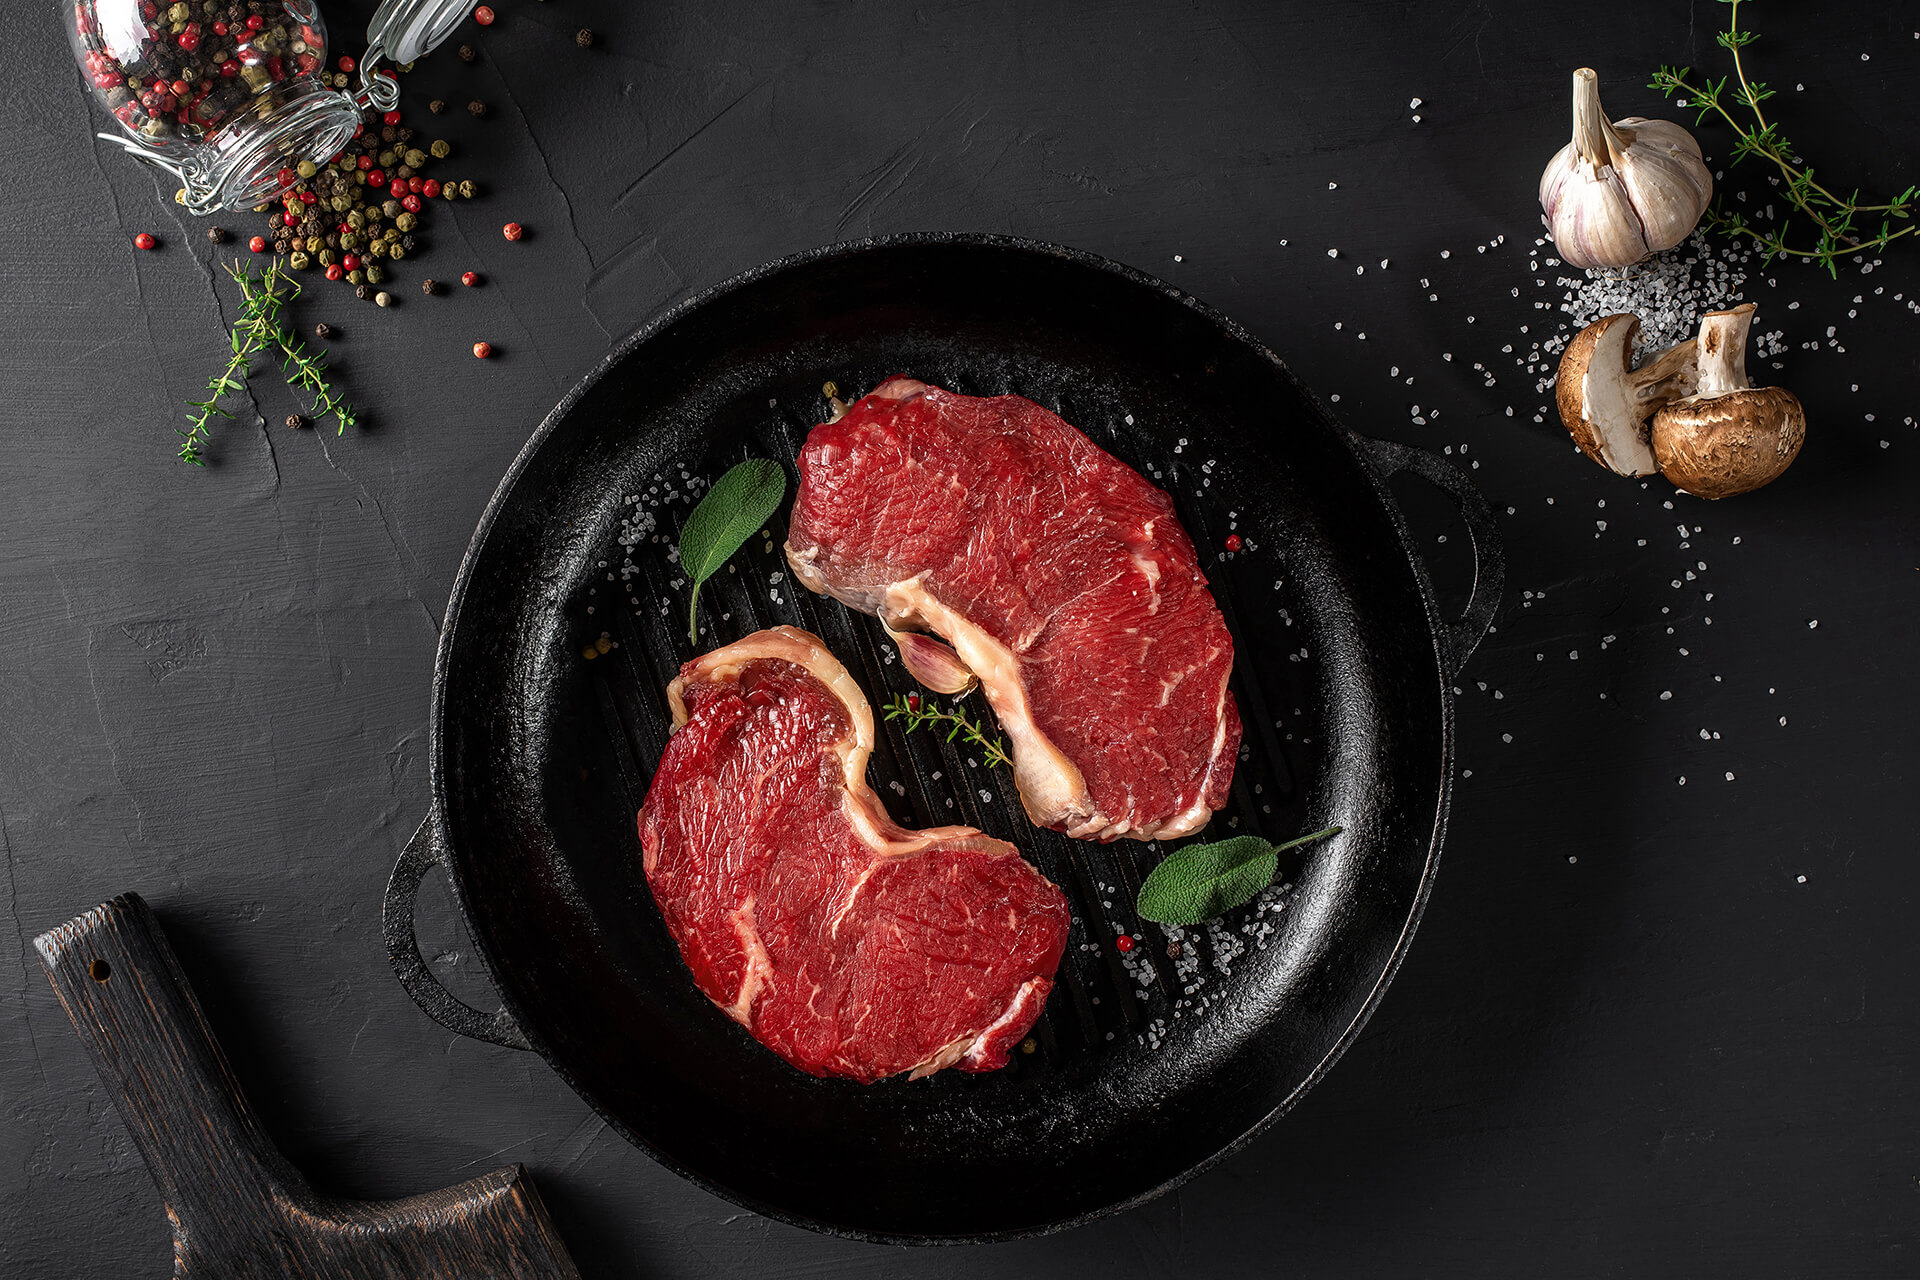
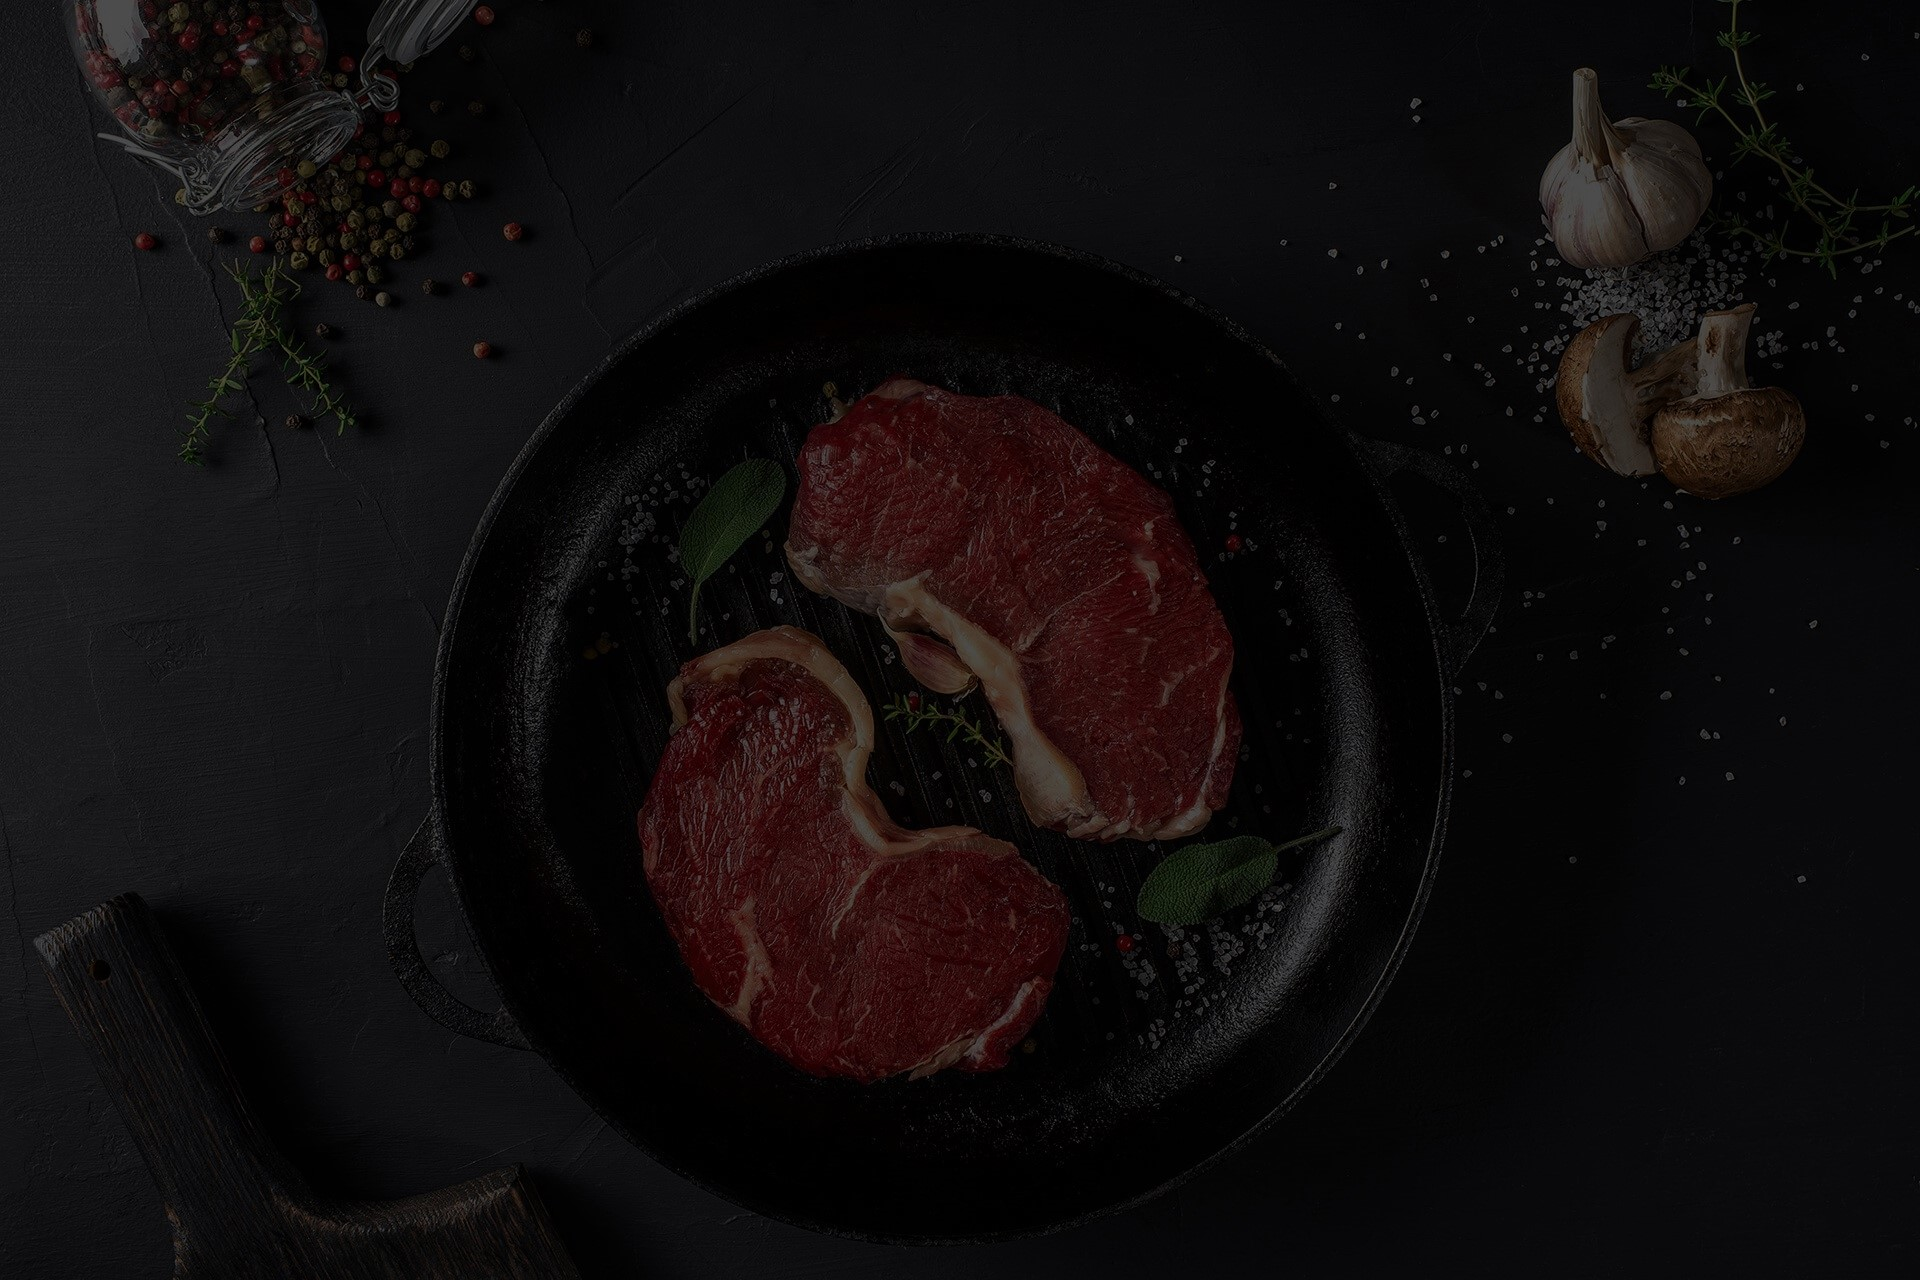
25.01.2024

diff --git a/src/shared/layout/Footer/index.jsx b/src/shared/layout/Footer/index.jsx
@@ -1,5 +1,49 @@
 const Footer = () => {
-  return <div>Footer</div>;
+  return (
+    <div className="bg-[#101010] text-white pt-[100px]">
+      <div className="px-36 grid grid-cols-4 gap-[95px]">
+        <div className="">
+          <h2 className="text-[50px] font-PirateOne leading-[40px]">
+            NaTural{" "}
+          </h2>
+          <span className="text-center font-Mukta uppercase text-[10px] p-[3px] bg-[#991b1f] tracking-[3px] text-white">
+            Steakhouse+Bar
+          </span>
+          <p className="font-Mukta text-[15px] mt-4">
+            Steakhouse the nunc bibe endum in finibus elit the solli citudin
+            elit.
+          </p>
+          <div>icons</div>
+        </div>
+        <div>
+          <h1 className=" text-[24px] font-PirateOne pb-1 text-[#991B1F] border-b  border-white border-dotted mb-3">
+            Phone & Email
+          </h1>
+          <p className="font-Mukta text-[15px]">+1 203-123-0606</p>
+          <p className="font-Mukta text-[15px]"> steakhouse@winta.com</p>
+        </div>
+        <div>
+          <h1 className=" text-[24px] font-PirateOne pb-1 text-[#991B1F] border-b  border-white border-dotted mb-3">
+            Our Address
+          </h1>
+          <p className="font-Mukta text-[15px]">
+            24 King St, Charleston, SC 29401 USA
+          </p>
+        </div>
+        <div>
+          <h1 className=" text-[24px] font-PirateOne pb-1 text-[#991B1F] border-b  border-white border-dotted mb-3">
+            Opening Hours
+          </h1>
+          <p className="font-Mukta text-[15px]">Mon-Fri: 5 PM - 10:30 PM</p>
+          <p className="font-Mukta text-[15px]">Sunday: Closed</p>
+        </div>
+      </div>
+      <div>
+        <p>© 2022, Winta Template. All right reserved.</p>
+        <p>Terms & Conditions</p>
+      </div>
+    </div>
+  );
 };
 
 export default Footer;

diff --git a/src/shared/components/CountrySlider/index.jsx b/src/shared/components/CountrySlider/index.jsx
@@ -1,4 +1,5 @@
 import Slider from "react-slick";
+import { HOME_SLIDER } from "./data";
 
 const CountrySlider = () => {
   const settings = {
@@ -10,24 +11,20 @@ const CountrySlider = () => {
   };
 
   return (
-    <div className="w-full CountrySlider">
-      <div className="w-full overflow-hidden text-white">
+    <div className="w-full CountrySlider  !brightness-100">
+      <div className="w-full overflow-hidden text-white ">
         <Slider {...settings}>
-          <div>
-            <h1>
-              Lorem ipsum dolor sit amet consectetur adipisicing elit. Fugit,
-              dolor laudantium ratione nobis delectus magni esse consequuntur
-              libero facere quae a distinctio nihil debitis molestias sit odio
-              eius facilis culpa ea cumque provident, dolorem ipsum! Deserunt,
-              eveniet. Optio, magnam vitae.
-            </h1>
-          </div>
-          <div>
-            <h1>SAlam</h1>
-          </div>
-          <div>
-            <h1>SAlam</h1>
-          </div>
+          {HOME_SLIDER?.map((item) => (
+            <div key={item?.id} className="flex flex-col">
+              <h1 className="font-PirateOne text-[36px] text-[#991B1F]">
+                {item?.title}
+              </h1>
+              <h2 className="uppercase font-Mukta text-[15px] py-3">
+                {item?.country}
+              </h2>
+              <p>{item?.description}</p>
+            </div>
+          ))}
         </Slider>
       </div>
     </div>

diff --git a/src/shared/components/CountrySlider/data.js b/src/shared/components/CountrySlider/data.js
@@ -1,0 +1,23 @@
+export const HOME_SLIDER = [
+  {
+    id: 1,
+    title: "Ishaq Yaqublu",
+    country: "California, USA",
+    description:
+      "The name Ishaq, in principle, quite fully describes the restaurants concept: red meat and red wine - what else is needed for a steakhouse!",
+  },
+  {
+    id: 2,
+    title: "Eltac Malik",
+    country: "California, USA",
+    description:
+      "The name Eltac, in principle, quite fully describes the restaurants concept: red meat and red wine - what else is needed for a steakhouse!",
+  },
+  {
+    id: 3,
+    title: "Emma White",
+    country: "California, USA",
+    description:
+      "The name Winta, in principle, quite fully describes the restaurants concept: red meat and red wine - what else is needed for a steakhouse!",
+  },
+];

diff --git a/src/pages/Home/index.jsx b/src/pages/Home/index.jsx
@@ -23,7 +23,7 @@ const Home = () => {
 
   return (
     <>
-      <div className="absolute top-0 z-[-1] bg-[#1b1b1b] w-full    ">
+      <div className=" top-0 z-[-1] bg-[#1b1b1b] w-full    ">
         <div className="w-full  z-[-1]">
           <SimpleSlider />
           {/* <img src={naTural} alt="NaTural " /> */}
@@ -247,7 +247,7 @@ const Home = () => {
             </div>
           </div>
         </div>
-        <div className="bg-[url('src/assets/imgs/banner.jpg')] bg-cover bg-center w-full bg-fixed h-96  flex   items-center brightness-50">
+        <div className="bg-[url('src/assets/imgs/banner.jpg')] bg-cover bg-center w-full bg-fixed h-96  flex   items-center ">
           <CountrySlider />
         </div>
       </div>

diff --git a/src/pages/index.jsx b/src/pages/index.jsx
@@ -1,13 +1,14 @@
 import { lazy } from "react";
 import PrivateRouter from "./PrivateRouter";
-// import AnimatedCursor from "react-animated-cursor";
+import Footer from "src/shared/layout/Footer";
+import AnimatedCursor from "react-animated-cursor";
 
 const Header = lazy(() => import("shared/layout/Header"));
 
 const Router = () => {
   return (
     <>
-      {/* <AnimatedCursor
+      <AnimatedCursor
         color="220, 90, 90"
         innerStyle={{
           backgroundColor: "red",
@@ -17,9 +18,11 @@ const Router = () => {
         outerStyle={{
           border: "3px solid red",
         }}
-      /> */}
+      />
       <Header />
+
       <PrivateRouter />
+      <Footer />
     </>
   );
 };

diff --git a/src/index.css b/src/index.css
@@ -159,14 +159,27 @@ transition: 0.2s;
 }
 
 .CountrySlider .slick-dots li{
-  width: 60px;
+  width: 14px;
   height: 60px;
 }
+.CountrySlider .slick-dots .slick-active button:before{
+  color: red !important;
+}
+.CountrySlider .slick-slider{
+  padding-block: 90px;
+} 
+.CountrySlider .slick-list{
+  text-align: center;
+  width: 540px;
+    margin: auto;
+} 
+
 .CountrySlider .slick-dots li button:hover{
   color: red !important;
 }
+
 .CountrySlider .slick-dots li button:before {
-  font-size: 40px !important;
-  color: red !important;
-  opacity: .8;
+  font-size: 11px !important;
+  color: white !important;
+  opacity: 1;
 }

diff --git a/README.md b/README.md
@@ -1,2 +1,3 @@
-### Demo domain => 
+### Demo domain =>
+
 natural-meat-gamma.vercel.app
